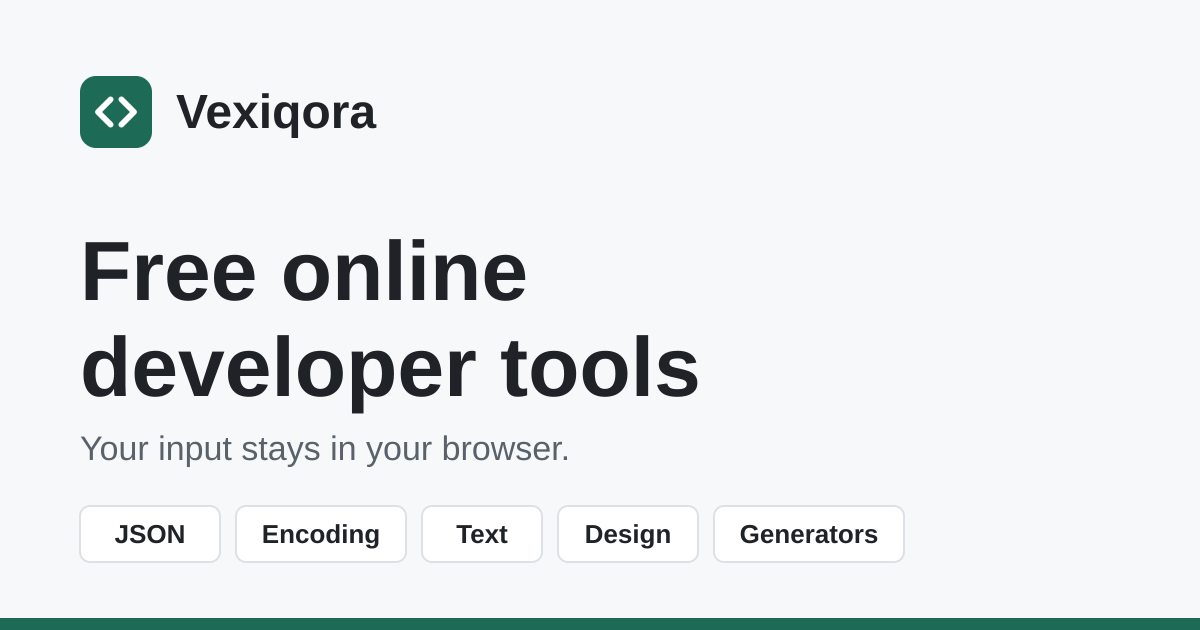
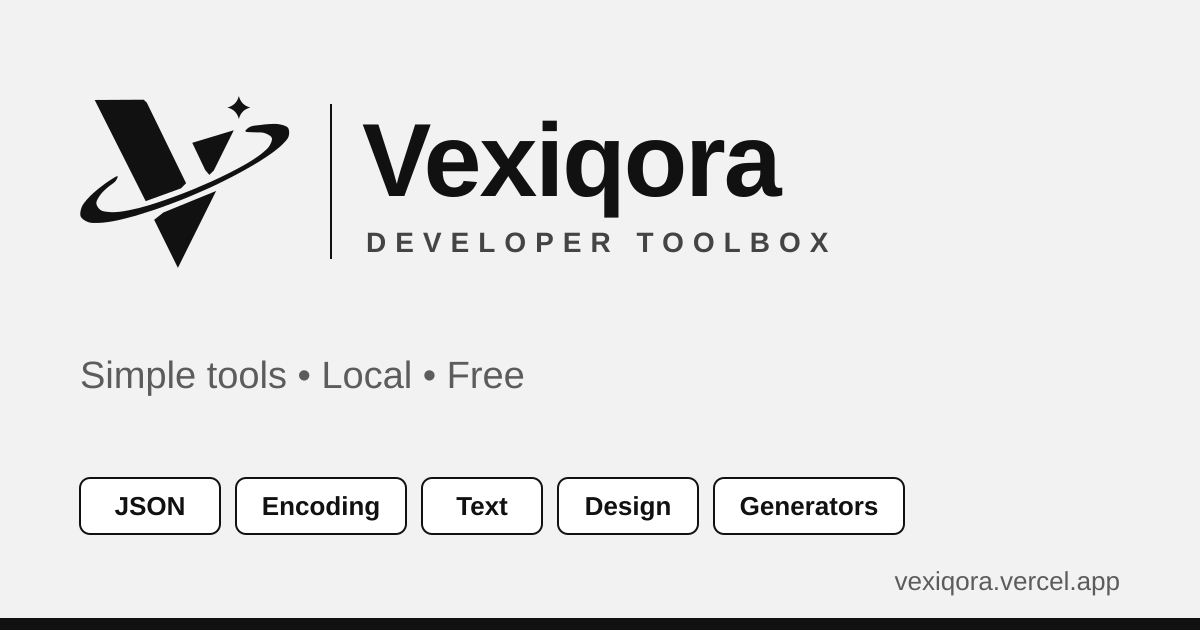
changed the whole theme to monochrome

diff --git a/tests/site.test.ts b/tests/site.test.ts
@@ -146,9 +146,84 @@ test("assets: favicon.ico is a valid ICO containing 16, 32 and 48 px images", ()
   }
 });
 
-test("assets: icon.svg is a valid SVG with a viewBox", () => {
+test("assets: icon.svg is a 64x64 SVG that switches colours for dark browser tabs", () => {
   const svg = fs.readFileSync(path.join(root, "src/app/icon.svg"), "utf8");
-  assert.match(svg, /^<svg[^>]+viewBox="0 0 32 32"/);
+  assert.match(svg, /^<svg[^>]+viewBox="0 0 64 64"/);
+  assert.match(svg, /prefers-color-scheme: dark/);
+  assert.match(svg, /<path class="mk"/);
+  assert.doesNotMatch(svg, /#1d6b57/i, "no leftover green");
+});
+
+test("assets: the logo mark is shared, well-formed and used by the navbar logo and favicon", () => {
+  const mark = fs.readFileSync(path.join(root, "src/lib/logoMark.ts"), "utf8");
+  const d = (mark.match(/d: "([^"]+)"/) ?? [])[1] ?? "";
+  assert.ok(d.length > 800 && d.startsWith("M") && d.endsWith("Z"));
+  assert.equal((d.match(/M/g) ?? []).length, 5, "three V pieces, the orbit ring and the sparkle");
+  assert.doesNotMatch(d, /NaN|undefined|Infinity/);
+  const icon = fs.readFileSync(path.join(root, "src/app/icon.svg"), "utf8");
+  assert.ok(icon.includes(d), "icon.svg uses exactly the same path as the navbar logo");
+  assert.match(fs.readFileSync(path.join(root, "src/components/Logo.tsx"), "utf8"), /LOGO_MARK/);
+  assert.ok(fs.readFileSync(path.join(root, "design/logo-mark.svg"), "utf8").includes(d), "the editable source matches");
+});
+
+test("assets: the social image source is monochrome", () => {
+  const svg = fs.readFileSync(path.join(root, "design/og-image.svg"), "utf8");
+  const colours = new Set((svg.match(/#[0-9a-f]{6}\b/gi) ?? []).map((c) => c.toLowerCase()));
+  for (const c of colours) {
+    const [r, g, b] = [1, 3, 5].map((i) => parseInt(c.slice(i, i + 2), 16));
+    assert.ok(r === g && g === b, `${c} is not a grey`);
+  }
+});
+
+// ---------- accessibility: colour contrast of the real theme values ----------
+function themeColours(block: string): Record<string, [number, number, number]> {
+  const out: Record<string, [number, number, number]> = {};
+  for (const m of block.matchAll(/--([a-z-]+):\s*(\d+) (\d+) (\d+);/g)) out[m[1]] = [Number(m[2]), Number(m[3]), Number(m[4])];
+  return out;
+}
+const luminance = ([r, g, b]: [number, number, number]) => {
+  const f = (v: number) => { const c = v / 255; return c <= 0.03928 ? c / 12.92 : ((c + 0.055) / 1.055) ** 2.4; };
+  return 0.2126 * f(r) + 0.7152 * f(g) + 0.0722 * f(b);
+};
+const contrast = (a: [number, number, number], b: [number, number, number]) => {
+  const [hi, lo] = [luminance(a), luminance(b)].sort((x, y) => y - x);
+  return (hi + 0.05) / (lo + 0.05);
+};
+
+test("theme: text meets WCAG AA (4.5:1) and form borders meet 3:1 in both themes", () => {
+  const css = fs.readFileSync(path.join(root, "src/app/globals.css"), "utf8");
+  const themes = {
+    light: themeColours(css.slice(css.indexOf(":root"), css.indexOf(".dark"))),
+    dark: themeColours(css.slice(css.indexOf(".dark"), css.indexOf("@layer base"))),
+  };
+  const textPairs: [string, string][] = [
+    ["ink", "canvas"], ["ink", "surface"], ["muted", "canvas"], ["muted", "surface"],
+    ["accent-text", "surface"], ["accent-text", "canvas"], ["accent-text", "accent-soft"], ["ink", "accent-soft"],
+    ["on-accent", "accent"], ["on-accent", "accent-strong"], ["danger", "danger-soft"], ["danger", "surface"],
+    ["ink", "added-bg"], ["ink", "removed-bg"], ["muted", "removed-bg"],
+  ];
+  const uiPairs: [string, string][] = [["line-strong", "surface"], ["line-strong", "canvas"], ["accent", "canvas"], ["accent", "surface"]];
+  for (const [name, t] of Object.entries(themes)) {
+    for (const [fg, bg] of textPairs) assert.ok(contrast(t[fg], t[bg]) >= 4.5, `${name}: ${fg} on ${bg} is ${contrast(t[fg], t[bg]).toFixed(2)}:1`);
+    for (const [fg, bg] of uiPairs) assert.ok(contrast(t[fg], t[bg]) >= 3, `${name}: ${fg} against ${bg} is ${contrast(t[fg], t[bg]).toFixed(2)}:1`);
+  }
+});
+
+test("theme: the palette is monochrome apart from the error colour", () => {
+  const css = fs.readFileSync(path.join(root, "src/app/globals.css"), "utf8");
+  const block = css.slice(css.indexOf(":root"), css.indexOf("@layer base"));
+  for (const [name, [r, g, b]] of Object.entries(themeColours(block))) {
+    if (name.startsWith("danger")) continue;
+    assert.ok(r === g && g === b, `--${name} (${r} ${g} ${b}) is not a grey`);
+  }
+});
+
+test("theme: the toggle is an accessible black-and-white switch", () => {
+  const toggle = fs.readFileSync(path.join(root, "src/components/ThemeToggle.tsx"), "utf8");
+  assert.match(toggle, /role="switch"/);
+  assert.match(toggle, /aria-checked=/);
+  assert.match(toggle, /aria-label="Dark theme"/);
+  assert.match(fs.readFileSync(path.join(root, "src/components/Button.tsx"), "utf8"), /text-on-accent/);
 });
 
 test("assets: no static robots.txt or sitemap.xml that would conflict with the generated ones", () => {
@@ -233,7 +308,7 @@ test("example: color, gradient, box shadow and border radius", () => {
   const c = parseColor(examples["color-converter"].input);
   assert.ok(c.ok);
   assert.equal(`${toRgbString(c.color)}\n${toHslString(c.color)}`, examples["color-converter"].output);
-  const g = gradientCss({ type: "linear", angle: 90, stops: [{ color: "#1d6b57", position: 0 }, { color: "#5fd0ae", position: 100 }] });
+  const g = gradientCss({ type: "linear", angle: 90, stops: [{ color: "#111111", position: 0 }, { color: "#e5e5e5", position: 100 }] });
   assert.ok(g.ok && g.css === examples["gradient-generator"].output);
   const s = boxShadowCss([defaultLayer]);
   assert.ok(s.ok && s.css === examples["box-shadow-generator"].output);

diff --git a/src/lib/logoMark.ts b/src/lib/logoMark.ts
@@ -1,0 +1,8 @@
+// The Vexiqora logo mark: a bold V crossed by an orbit ring, with a sparkle.
+// It was traced from the official banner artwork and rebuilt as clean vector shapes.
+// The navbar logo uses this path directly, so it stays crisp at any size and follows the theme colour.
+export const LOGO_MARK = {
+  width: 135.23,
+  height: 109.97,
+  d: "M42.29 67.72 L9.46 2.56 L41.03 2.38 L43.03 4.30 L68.32 56.16 L65.03 59.47ZM63.04 110.67 L47.76 79.72 L53.65 75.04 L87.65 61.14ZM83.28 50.79 L80.62 47.66 L72.28 30.14 L99.03 22.06 L86.14 48.03ZM11.15 81.76C9.13 81.76 7.04 81.89 5.26 81.21C3.48 80.52 1.18 79.24 0.48 77.65C-0.23 76.06 0.35 73.52 1.04 71.66C1.72 69.80 3.25 68.09 4.59 66.49C5.93 64.90 7.51 63.47 9.07 62.07C10.63 60.67 12.33 59.33 13.95 58.09C15.56 56.84 17.09 55.69 18.77 54.61C20.46 53.53 23.40 51.54 24.05 51.61C24.71 51.68 23.74 53.82 22.68 55.03C21.63 56.25 19.29 57.53 17.73 58.92C16.17 60.31 14.51 61.73 13.31 63.39C12.12 65.06 10.53 67.23 10.53 68.91C10.54 70.59 11.85 72.51 13.33 73.48C14.81 74.46 17.35 74.59 19.41 74.77C21.47 74.94 23.62 74.75 25.70 74.54C27.78 74.32 29.85 73.89 31.91 73.49C33.97 73.08 36.01 72.63 38.05 72.11C40.08 71.60 42.10 71.02 44.11 70.43C46.12 69.83 48.17 69.17 50.10 68.53C52.04 67.89 53.80 67.28 55.72 66.60C57.64 65.93 59.67 65.20 61.63 64.48C63.60 63.75 65.56 63.00 67.51 62.24C69.46 61.48 71.42 60.72 73.35 59.92C75.29 59.12 77.20 58.26 79.12 57.43C81.05 56.60 83.04 55.77 84.89 54.93C86.75 54.10 88.44 53.30 90.27 52.42C92.11 51.54 94.05 50.60 95.92 49.65C97.80 48.71 99.66 47.75 101.51 46.76C103.36 45.77 105.20 44.78 107.01 43.71C108.81 42.65 110.60 41.56 112.34 40.39C114.08 39.22 115.85 38.06 117.44 36.71C119.03 35.35 120.88 33.90 121.89 32.28C122.89 30.65 124.04 28.36 123.48 26.95C122.93 25.53 120.44 24.37 118.57 23.78C116.71 23.19 114.30 23.55 112.29 23.39C110.29 23.22 106.94 23.42 106.53 22.81C106.13 22.19 108.25 20.38 109.84 19.69C111.43 19.01 114.03 18.95 116.05 18.68C118.08 18.41 119.94 18.15 121.97 18.07C124.01 17.98 126.26 17.79 128.25 18.20C130.24 18.60 132.91 19.16 133.92 20.48C134.92 21.81 134.87 24.39 134.29 26.15C133.71 27.92 131.88 29.58 130.44 31.08C129.00 32.58 127.26 33.91 125.66 35.18C124.06 36.44 122.52 37.50 120.83 38.65C119.15 39.80 117.35 40.99 115.57 42.10C113.79 43.21 111.98 44.26 110.16 45.31C108.35 46.36 106.52 47.40 104.69 48.41C102.85 49.42 101.01 50.42 99.15 51.39C97.30 52.37 95.42 53.31 93.55 54.25C91.68 55.19 89.76 56.16 87.92 57.05C86.09 57.93 84.40 58.72 82.54 59.55C80.68 60.39 78.70 61.22 76.77 62.06C74.85 62.89 72.94 63.74 71.01 64.55C69.08 65.36 67.14 66.16 65.19 66.93C63.24 67.70 61.28 68.43 59.32 69.17C57.36 69.91 55.34 70.66 53.42 71.35C51.50 72.04 49.75 72.67 47.82 73.32C45.89 73.96 43.82 74.58 41.82 75.21C39.82 75.85 37.84 76.53 35.83 77.11C33.82 77.70 31.78 78.20 29.75 78.71C27.71 79.22 25.68 79.76 23.63 80.18C21.58 80.60 19.50 80.97 17.42 81.24C15.34 81.50 13.18 81.77 11.15 81.76ZM102.30 0.00Q103.78 5.93 109.71 7.42Q103.78 8.90 102.30 14.83Q100.81 8.90 94.88 7.42Q100.81 5.93 102.30 0.00Z",
+} as const;

diff --git a/src/components/ThemeToggle.tsx b/src/components/ThemeToggle.tsx
@@ -3,10 +3,10 @@
 import { useEffect, useState } from "react";
 import { Moon, Sun } from "lucide-react";
 
-// Switches between the light and dark theme. The theme is just a "dark" class on the <html>
-// element; the colours for each theme are defined in globals.css.
-// The first choice follows your device setting; after you click, your choice is remembered
-// in this browser (see the Privacy page).
+// A black-and-white switch for the light and dark theme. The theme is just a "dark" class on the
+// <html> element; the colours for each theme are defined in globals.css.
+// The first visit follows your device setting; after you click, your choice is remembered in this
+// browser (see the Privacy page).
 export default function ThemeToggle() {
   // null until the page has loaded in the browser, because the server can't know the theme.
   const [isDark, setIsDark] = useState<boolean | null>(null);
@@ -29,15 +29,19 @@ export default function ThemeToggle() {
   return (
     <button
       type="button"
-      onClick={toggle}
-      aria-pressed={isDark === null ? undefined : isDark}
+      role="switch"
+      aria-checked={isDark === true}
       aria-label="Dark theme"
       title="Toggle dark theme"
-      className="inline-flex h-10 w-10 shrink-0 items-center justify-center rounded-md border border-line bg-surface text-ink hover:bg-canvas"
+      onClick={toggle}
+      className="inline-flex h-8 w-[3.75rem] shrink-0 items-center rounded-full border-2 border-ink bg-ink p-0.5"
     >
-      {/* Both icons are in the page; CSS shows the right one, so there is no flash on load. */}
-      <Moon size={18} aria-hidden className="dark:hidden" />
-      <Sun size={18} aria-hidden className="hidden dark:block" />
+      {/* The knob slides right in dark mode. Both icons are in the page and CSS shows the right
+          one, so there is no flash on load. */}
+      <span className="pointer-events-none flex h-6 w-6 items-center justify-center rounded-full bg-canvas text-ink transition-transform duration-200 dark:translate-x-7">
+        <Sun size={14} aria-hidden className="dark:hidden" />
+        <Moon size={14} aria-hidden className="hidden dark:block" />
+      </span>
     </button>
   );
 }

diff --git a/src/app/globals.css b/src/app/globals.css
@@ -5,36 +5,40 @@
 /* Colours as "R G B" numbers so Tailwind can add transparency to them. */
 :root {
   color-scheme: light;
-  --canvas: 247 248 249;
+  --canvas: 242 242 242; /* page background */
   --surface: 255 255 255;
-  --ink: 31 35 40;
-  --muted: 89 97 107;
-  --line: 221 225 230;
-  --accent: 29 107 87;
-  --accent-strong: 21 82 66;
-  --accent-soft: 232 243 239;
-  --accent-text: 29 107 87;
-  --danger: 164 38 44;
-  --danger-soft: 251 236 235;
-  --added-bg: 228 244 234;
-  --removed-bg: 251 233 232;
+  --ink: 17 17 17;
+  --muted: 92 92 92;
+  --line: 214 214 214;
+  --line-strong: 133 133 133;
+  --accent: 17 17 17; /* in this monochrome design the accent is simply ink */
+  --accent-strong: 51 51 51;
+  --accent-soft: 232 232 232;
+  --accent-text: 17 17 17;
+  --on-accent: 255 255 255;
+  --danger: 160 32 32; /* errors keep a restrained red so they stand out from normal text */
+  --danger-soft: 251 236 236;
+  --added-bg: 220 220 220;
+  --removed-bg: 236 236 236;
 }
 
 .dark {
   color-scheme: dark; /* makes scrollbars and form controls dark too */
-  --canvas: 15 18 20;
-  --surface: 23 27 31;
-  --ink: 232 234 237;
-  --muted: 154 163 173;
-  --line: 44 51 58;
-  --accent: 35 128 101;
-  --accent-strong: 29 107 87;
-  --accent-soft: 18 48 42;
-  --accent-text: 95 208 174;
+  --canvas: 10 10 10;
+  --surface: 22 22 22;
+  --ink: 238 238 238;
+  --muted: 158 158 158;
+  --line: 52 52 52;
+  --line-strong: 115 115 115;
+  --accent: 238 238 238;
+  --accent-strong: 204 204 204;
+  --accent-soft: 38 38 38;
+  --accent-text: 238 238 238;
+  --on-accent: 10 10 10;
   --danger: 255 138 143;
   --danger-soft: 58 26 28;
-  --added-bg: 18 48 31;
-  --removed-bg: 58 26 28;
+  --added-bg: 56 56 56;
+  --removed-bg: 34 34 34;
 }
 
 @layer base {
@@ -54,7 +58,7 @@
     @apply focus:border-accent;
   }
   ::selection {
-    @apply bg-accent-soft;
+    @apply bg-ink/20;
   }
 }
 

diff --git a/src/components/tools/ColorTool.tsx b/src/components/tools/ColorTool.tsx
@@ -8,7 +8,7 @@ import { TextInput } from "../Fields";
 import { parseColor, toHex, toHslString, toOpaqueHex, toRgbString } from "@/lib/color";
 
 export default function ColorTool() {
-  const [text, setText] = useState("#1d6b57");
+  const [text, setText] = useState("#111111");
   const pickerId = useId();
   const parsed = parseColor(text);
 
@@ -23,7 +23,7 @@ export default function ColorTool() {
   return (
     <div className="grid gap-6 lg:grid-cols-2">
       <div className="space-y-4">
-        <TextInput label="Color" value={text} onChange={setText} placeholder="#1d6b57, rgb(29, 107, 87) or hsl(165, 57%, 27%)" mono hint="HEX (3, 4, 6 or 8 digits), rgb() / rgba(), or hsl() / hsla()." />
+        <TextInput label="Color" value={text} onChange={setText} placeholder="#111111, rgb(17, 17, 17) or hsl(0, 0%, 7%)" mono hint="HEX (3, 4, 6 or 8 digits), rgb() / rgba(), or hsl() / hsla()." />
 
         <div className="flex flex-wrap items-end gap-3">
           <div className="flex flex-col gap-1.5">
@@ -33,10 +33,10 @@ export default function ColorTool() {
               type="color"
               value={parsed.ok ? toOpaqueHex(parsed.color) : "#000000"}
               onChange={(e) => setText(e.target.value)}
-              className="h-10 w-20 cursor-pointer rounded-md border border-line bg-surface p-1"
+              className="h-10 w-20 cursor-pointer rounded-md border border-line-strong bg-surface p-1"
             />
           </div>
-          <Button variant="ghost" onClick={() => setText("#1d6b57")}>Reset</Button>
+          <Button variant="ghost" onClick={() => setText("#111111")}>Reset</Button>
           <Button variant="ghost" onClick={() => setText("")} disabled={text === ""}>Clear</Button>
         </div>
 

diff --git a/src/lib/examples.ts b/src/lib/examples.ts
@@ -109,18 +109,18 @@ export const examples: Record<string, ToolExample> = {
     output: "camelCase: theQuickBrownFox\nsnake_case: the_quick_brown_fox\nTitle Case: The Quick Brown Fox",
   },
   "color-converter": {
-    description: "The accent color used on this site, shown in the other two formats.",
+    description: "The near-black used for text on this site, shown in the other two formats.",
     inputLabel: "Input",
-    input: "#1d6b57",
+    input: "#111111",
     outputLabel: "Results",
-    output: "rgb(29, 107, 87)\nhsl(165, 57%, 27%)",
+    output: "rgb(17, 17, 17)\nhsl(0, 0%, 7%)",
   },
   "gradient-generator": {
-    description: "A left-to-right (90°) linear gradient between two greens, written as ready-to-paste CSS.",
+    description: "A left-to-right (90°) linear gradient from near-black to light grey, written as ready-to-paste CSS.",
     inputLabel: "Settings",
-    input: "Type: linear\nAngle: 90\nStop 1: #1d6b57 at 0%\nStop 2: #5fd0ae at 100%",
+    input: "Type: linear\nAngle: 90\nStop 1: #111111 at 0%\nStop 2: #e5e5e5 at 100%",
     outputLabel: "CSS",
-    output: "background: linear-gradient(90deg, #1d6b57 0%, #5fd0ae 100%);",
+    output: "background: linear-gradient(90deg, #111111 0%, #e5e5e5 100%);",
   },
   "box-shadow-generator": {
     description: "A soft, low-opacity shadow, which is a good starting point for cards.",

diff --git a/src/components/Logo.tsx b/src/components/Logo.tsx
@@ -1,14 +1,23 @@
 import Link from "next/link";
+import { LOGO_MARK } from "@/lib/logoMark";
 import { siteConfig } from "@/lib/site";
+
+const HEIGHT = 28; // the mark's height in pixels; the width follows its proportions
 
 export default function Logo() {
   return (
-    <Link href="/" className="flex items-center gap-2 rounded-md font-semibold tracking-tight text-ink" aria-label={`${siteConfig.name} home`}>
-      <svg width="28" height="28" viewBox="0 0 32 32" fill="none" aria-hidden="true">
-        <rect width="32" height="32" rx="7" fill="#1d6b57" />
-        <path d="M13 9 6 16l7 7M19 9l7 7-7 7" stroke="#fff" strokeWidth="3.2" strokeLinecap="round" strokeLinejoin="round" />
+    <Link href="/" className="flex items-center gap-2.5 rounded-md text-ink" aria-label={`${siteConfig.name} home`}>
+      {/* currentColor makes the mark black on the light theme and white on the dark theme. */}
+      <svg
+        viewBox={`0 0 ${LOGO_MARK.width} ${LOGO_MARK.height}`}
+        width={Math.round((HEIGHT * LOGO_MARK.width) / LOGO_MARK.height)}
+        height={HEIGHT}
+        fill="currentColor"
+        aria-hidden="true"
+      >
+        <path d={LOGO_MARK.d} />
       </svg>
-      <span className="text-lg">{siteConfig.name}</span>
+      <span className="text-xl font-bold tracking-tight">{siteConfig.name}</span>
     </Link>
   );
 }

diff --git a/tailwind.config.ts b/tailwind.config.ts
@@ -1,6 +1,6 @@
 import type { Config } from "tailwindcss";
 
-// Design tokens. Each colour is a CSS variable (defined in src/app/globals.css) so the
+// Design tokens (a black, white and grey palette). Each colour is a CSS variable (defined in src/app/globals.css) so the
 // light and dark themes can swap values. "<alpha-value>" keeps classes like border-accent/30 working.
 const token = (name: string) => `rgb(var(--${name}) / <alpha-value>)`;
 
@@ -14,11 +14,13 @@ const config: Config = {
         surface: token("surface"), // cards and inputs
         ink: token("ink"), // main text
         muted: token("muted"), // secondary text
-        line: token("line"), // borders
+        line: token("line"), // subtle borders and dividers
+        "line-strong": token("line-strong"), // borders of form fields (needs 3:1 contrast)
         accent: token("accent"), // buttons, focus ring, hover borders
         "accent-strong": token("accent-strong"), // button hover
         "accent-soft": token("accent-soft"), // light tint behind accent text
         "accent-text": token("accent-text"), // accent-coloured text and links
+        "on-accent": token("on-accent"), // text placed on an accent background
         danger: token("danger"),
         "danger-soft": token("danger-soft"),
         "added-bg": token("added-bg"),

diff --git a/src/components/tools/GradientTool.tsx b/src/components/tools/GradientTool.tsx
@@ -16,8 +16,8 @@ interface StopState {
 }
 
 const INITIAL: StopState[] = [
-  { id: 1, color: "#1d6b57", position: 0 },
-  { id: 2, color: "#5fd0ae", position: 100 },
+  { id: 1, color: "#111111", position: 0 },
+  { id: 2, color: "#e5e5e5", position: 100 },
 ];
 
 export default function GradientTool() {
@@ -50,7 +50,7 @@ export default function GradientTool() {
             <div key={stop.id} className="flex items-end gap-3">
               <div className="flex flex-col gap-1.5">
                 <label htmlFor={`stop-color-${stop.id}`} className="text-xs text-muted">Color {index + 1}</label>
-                <input id={`stop-color-${stop.id}`} type="color" value={stop.color} onChange={(e) => update(stop.id, { color: e.target.value })} className="h-10 w-16 cursor-pointer rounded-md border border-line bg-surface p-1" />
+                <input id={`stop-color-${stop.id}`} type="color" value={stop.color} onChange={(e) => update(stop.id, { color: e.target.value })} className="h-10 w-16 cursor-pointer rounded-md border border-line-strong bg-surface p-1" />
               </div>
               <div className="flex min-w-0 flex-1 flex-col gap-1.5">
                 <label htmlFor={`stop-pos-${stop.id}`} className="text-xs text-muted">Position {index + 1} ({stop.position}%)</label>

diff --git a/src/components/tools/DiffTool.tsx b/src/components/tools/DiffTool.tsx
@@ -33,7 +33,7 @@ function SideCell({ line, side, partner }: { line: DiffLine | null; side: "left"
     content = (
       <>
         {parts.prefix}
-        {middle !== "" && <mark className={`rounded-sm px-0.5 text-ink ${side === "left" ? "bg-danger/25" : "bg-accent/30"}`}>{middle}</mark>}
+        {middle !== "" && <mark className={`rounded-sm px-0.5 text-ink ${side === "left" ? "bg-ink/15 line-through" : "bg-ink/25 font-semibold"}`}>{middle}</mark>}
         {parts.suffix}
       </>
     );
@@ -159,7 +159,7 @@ export default function DiffTool() {
                         <span aria-hidden>{marker[line.type].symbol}</span>
                         <span className="sr-only">{marker[line.type].label}</span>
                       </td>
-                      <td className="whitespace-pre px-2 py-0.5 align-top">{line.text === "" ? "\u00a0" : line.text}</td>
+                      <td className={`whitespace-pre px-2 py-0.5 align-top ${line.type === "removed" ? "line-through decoration-muted" : ""}`}>{line.text === "" ? "\u00a0" : line.text}</td>
                     </tr>
                   ))}
                 </tbody>

diff --git a/src/app/layout.tsx b/src/app/layout.tsx
@@ -1,4 +1,4 @@
-import type { Metadata } from "next";
+import type { Metadata, Viewport } from "next";
 import { IBM_Plex_Mono, IBM_Plex_Sans } from "next/font/google";
 import Footer from "@/components/Footer";
 import Navbar from "@/components/Navbar";
@@ -12,6 +12,14 @@ const mono = IBM_Plex_Mono({ subsets: ["latin"], weight: ["400"], variable: "--f
 
 // Runs before the page is drawn: use the saved theme, or else the device's light/dark setting.
 const themeScript = `(function(){try{var t=localStorage.getItem("theme");var d=t?t==="dark":window.matchMedia("(prefers-color-scheme: dark)").matches;if(d)document.documentElement.classList.add("dark")}catch(e){}})();`;
+
+// Colours the browser's address bar on phones to match the page.
+export const viewport: Viewport = {
+  themeColor: [
+    { media: "(prefers-color-scheme: light)", color: "#f2f2f2" },
+    { media: "(prefers-color-scheme: dark)", color: "#0a0a0a" },
+  ],
+};
 
 export const metadata: Metadata = {
   // All relative URLs in metadata (canonical links, Open Graph) are built from this.

diff --git a/src/lib/tools.ts b/src/lib/tools.ts
@@ -268,7 +268,7 @@ export const tools: Tool[] = [
       "Convert colors between HEX, RGB and HSL, including transparency, with a live preview and a color picker. Runs in your browser.",
     about:
       "Designers and developers write the same color in different ways. Enter a color in any of the three formats, or pick one, and see it in all of them, ready to copy into your CSS.",
-    howTo: ["Type a color such as #1d6b57, rgb(29, 107, 87) or hsl(165, 57%, 27%), or use the color picker.", "Check the preview swatch.", "Copy the format you need."],
+    howTo: ["Type a color such as #111111, rgb(17, 17, 17) or hsl(0, 0%, 7%), or use the color picker.", "Check the preview swatch.", "Copy the format you need."],
     goodToKnow: ["Short HEX forms like #fff and forms with transparency like #ff000080 are accepted.", "Values outside the allowed range are adjusted to the nearest valid value, as CSS does.", "HSL values are rounded to whole numbers, so converting back and forth can change a value by one."],
   },
   {
